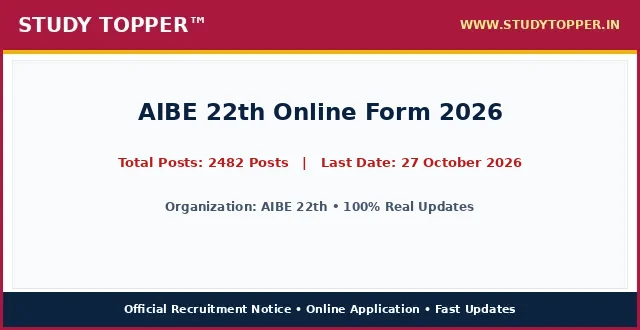
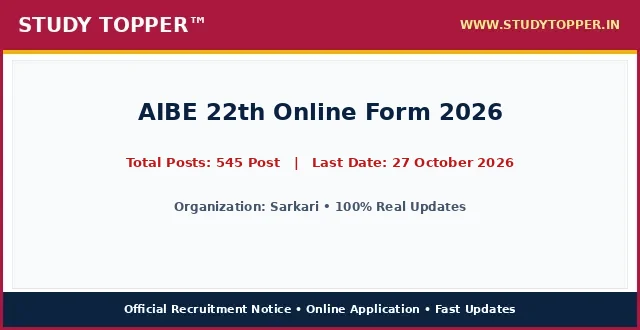
chore(lifecycle): daily auto-sort vacancies and update active dates

Changed region(s): [[0.1875, 0.4545, 0.8125, 0.5152], [0.25, 0.6061, 0.75, 0.6667]]

diff --git a/pages/2026-aibe-22th-aug26.html b/pages/2026-aibe-22th-aug26.html
@@ -987,12 +987,12 @@ ul.wp-block-latest-posts a:hover {
 <main class="site-main" id="main">
 <div class="gb-container gb-container-b39c368c">
 <h1 class="gb-headline gb-headline-e52a0102 gb-headline-text" style="font-size: 22px; font-weight: 700; color: #0000cd; text-align: left; margin: 8px 0 4px 0; line-height: 1.3; width: 100%; font-family: '-apple-system, BlinkMacSystemFont, 'Segoe UI', Roboto, 'Helvetica Neue', Arial, sans-serif', Times, serif, Hind, sans-serif;">AIBE 22th Online Form 2026</h1>
-<div class="gb-container gb-container-659bd175"><p style="color: #cd0808; font-weight: 700; font-size: 15px; margin: 2px 0 7px 0; text-align: left; font-family: '-apple-system, BlinkMacSystemFont, 'Segoe UI', Roboto, 'Helvetica Neue', Arial, sans-serif', Times, serif, Hind, sans-serif;">Post Date: August 21, 2026 07:49 PM</p></div>
-<p class="gb-headline gb-headline-550ae316 short_Details gb-headline-text" style="width: 100%; max-width: 100%; font-size: 16.8px; line-height: 1.55; color: #000000; text-align: justify; text-justify: inter-word; margin: 8px 0 14px 0; display: block; font-family: '-apple-system, BlinkMacSystemFont, 'Segoe UI', Roboto, 'Helvetica Neue', Arial, sans-serif', Times, serif, Hind, sans-serif;"><strong style="color: #0000cd;">AIBE 22th</strong> has initiated the centralized online application process for <strong style="color: #cd0808;">AIBE 22th Online Form 2026</strong> across recognized institutions and university departments. Eligible candidates seeking admission can complete the registration process before the specified deadline of 27 October 2026. The entrance evaluation and counselling allotment evaluate academic merit and entrance examination ranks. Prospective students must review detailed course eligibility, seat quotas, and reservation norms prior to submitting forms.</p>
+<div class="gb-container gb-container-659bd175"><p style="color: #cd0808; font-weight: 700; font-size: 15px; margin: 2px 0 7px 0; text-align: left; font-family: '-apple-system, BlinkMacSystemFont, 'Segoe UI', Roboto, 'Helvetica Neue', Arial, sans-serif', Times, serif, Hind, sans-serif;">Post Date: August 22, 2026 11:56 AM</p></div>
+<p class="gb-headline gb-headline-550ae316 short_Details gb-headline-text" style="width: 100%; max-width: 100%; font-size: 16.8px; line-height: 1.55; color: #000000; text-align: justify; text-justify: inter-word; margin: 8px 0 14px 0; display: block; font-family: '-apple-system, BlinkMacSystemFont, 'Segoe UI', Roboto, 'Helvetica Neue', Arial, sans-serif', Times, serif, Hind, sans-serif;"><strong style="color: #0000cd;">Sarkari</strong> has initiated the centralized online application process for <strong style="color: #cd0808;">AIBE 22th Online Form 2026</strong> across recognized institutions and university departments. Eligible candidates seeking admission can complete the registration process before the specified deadline of 27 October 2026. The entrance evaluation and counselling allotment evaluate academic merit and entrance examination ranks. Prospective students must review detailed course eligibility, seat quotas, and reservation norms prior to submitting forms.</p>
 <div class="gb-container gb-container-9849916c"><div class="social-buttons-compact" style="display: flex; justify-content: flex-start; align-items: center; gap: 10px; margin: 10px 0 16px 0; width: 100%;"><a class="social-btn-compact wa" href="https://whatsapp.com/channel/0029Va9xyz" rel="noopener" style="background-color: #00d084; color: #ffffff; padding: 10px 18px; border-radius: 4px; text-decoration: none; font-weight: bold; font-size: 15.5px; display: inline-flex; align-items: center; justify-content: center; height: auto;" target="_blank">WhatsApp</a><a class="social-btn-compact tg" href="https://t.me/studytopperofficial" rel="noopener" style="background-color: #0088cc; color: #ffffff; padding: 10px 18px; border-radius: 4px; text-decoration: none; font-weight: bold; font-size: 15.5px; display: inline-flex; align-items: center; justify-content: center; height: auto;" target="_blank">Telegram</a></div></div>
 <div class="gb-container gb-container-f58e6ca1" style="border: 2px solid #5b032f; border-radius: 4px; overflow: hidden; margin: 15px 0 20px 0; background-color: #ffffff; width: 100%; box-sizing: border-box;">
 <h2 class="gb-headline gb-headline-2ca5a791 gb-headline-text" style="font-size: 16px; font-weight: 700; text-align: center; color: #ef0303; line-height: 1.3; padding: 6px 4px; margin: 0; background: #ffffff; font-family: '-apple-system, BlinkMacSystemFont, 'Segoe UI', Roboto, 'Helvetica Neue', Arial, sans-serif', Times, serif, Hind, sans-serif;">AIBE 22th Online Form 2026 &ndash; Latest Details &amp; Updates</h2>
-<h3 class="gb-headline gb-headline-7d5f86e8 gb-headline-text" style="font-size: 16px; font-weight: 600; text-align: center; color: #009703; line-height: 1.25; margin: 0; padding: 2px 4px 6px 4px; background: #ffffff; font-family: '-apple-system, BlinkMacSystemFont, 'Segoe UI', Roboto, 'Helvetica Neue', Arial, sans-serif', Times, serif, Hind, sans-serif;">AIBE 22th : Details &amp; Summary</h3>
+<h3 class="gb-headline gb-headline-7d5f86e8 gb-headline-text" style="font-size: 16px; font-weight: 600; text-align: center; color: #009703; line-height: 1.25; margin: 0; padding: 2px 4px 6px 4px; background: #ffffff; font-family: '-apple-system, BlinkMacSystemFont, 'Segoe UI', Roboto, 'Helvetica Neue', Arial, sans-serif', Times, serif, Hind, sans-serif;">Sarkari : Details &amp; Summary</h3>
 <p class="gb-headline gb-headline-79adf169 gb-headline-text" style="margin: 0 0 6px 0; font-family: '-apple-system, BlinkMacSystemFont, 'Segoe UI', Roboto, 'Helvetica Neue', Arial, sans-serif', Times, serif, Hind, sans-serif; text-align: center; font-size: 18px; font-weight: 700;"><a href="/" style="color: #0000ff; text-decoration: underline;">StudyTopper.in</a></p>
 
 <style id="st-post-boxes-responsive-css">
@@ -1025,7 +1025,7 @@ ul.wp-block-latest-posts a:hover {
     <div style="background-color: #5b032f; color: #ffffff; padding: 8px 10px; font-size: 20px; font-weight: 700; text-align: center; font-family: '-apple-system, BlinkMacSystemFont, 'Segoe UI', Roboto, 'Helvetica Neue', Arial, sans-serif', Times, serif, Hind, sans-serif;">Admission Schedule Dates</div>
     <div style="padding: 12px 14px; background-color: #ffffff;">
       <ul style="padding-left: 20px; margin: 0; list-style-type: disc; text-align: left; font-size: 14pt; line-height: 1.6; font-family: '-apple-system, BlinkMacSystemFont, 'Segoe UI', Roboto, 'Helvetica Neue', Arial, sans-serif', Times, serif, Hind, sans-serif;">
-        <li><span style="font-size: 14pt;">Online Apply Start Date : <strong>19 August 2026</strong></span></li><li><span style="font-size: 14pt;">Online Apply Last Date : <span style="color: #ff0000;"><strong>27 October 2026</strong></span></span></li><li><span style="font-size: 14pt;">Last Date of Fee Payment : <span style="color: #ff0000;"><strong>28 October 2026</strong></span></span></li><li><span style="font-size: 14pt;">Correction Last Date : <span style="color: #ff0000;"><strong>30 October 2026</strong></span></span></li><li><span style="font-size: 14pt;">Exam Date : <strong>29 November 2026</strong></span></li><li><span style="font-size: 14pt;">Admit Card Date : <strong>14 November 2026</strong></span></li><li><span style="font-size: 14pt;">AIBE 22th Notification 2026 : <strong>Age Limit</strong></span></li>
+        
       </ul>
     </div>
   </div>
@@ -1034,7 +1034,7 @@ ul.wp-block-latest-posts a:hover {
     <div style="background-color: #5b032f; color: #ffffff; padding: 8px 10px; font-size: 20px; font-weight: 700; text-align: center; font-family: '-apple-system, BlinkMacSystemFont, 'Segoe UI', Roboto, 'Helvetica Neue', Arial, sans-serif', Times, serif, Hind, sans-serif;">Application &amp; Counselling Fee</div>
     <div style="padding: 12px 14px; background-color: #ffffff;">
       <ul style="padding-left: 20px; margin: 0; list-style-type: disc; text-align: left; font-size: 14pt; line-height: 1.6; font-family: '-apple-system, BlinkMacSystemFont, 'Segoe UI', Roboto, 'Helvetica Neue', Arial, sans-serif', Times, serif, Hind, sans-serif;">
-        <li><span style="font-size: 14pt;">For General, EWS, OBC : <strong>₹ 3500/-</strong></span></li><li><span style="font-size: 14pt;">For SC, ST, PwBD : <strong>₹ 2500/-</strong></span></li><li><span style="font-size: 14pt;">Payment Mode (Online) : <strong>You can make the payment using the following methods: Debit Card Credit Card Internet Banking IMPS Cash Card / Mobile Wallet</strong></span></li>
+        <li><span style="font-size: 14pt;">Bihar Police BPSSC Sub Inspector SI Prohibition Result 2026 Advt. No. : <strong>03/2026</strong></span></li><li><span style="font-size: 14pt;">UP Scholarship Online Form 2026 : <strong>2027</strong></span></li>
       </ul>
       <div style="margin-top: 10px; font-size: 14pt; line-height: 1.5; color: #000000; border-top: 1px dashed #ccc; padding-top: 8px; font-family: '-apple-system, BlinkMacSystemFont, 'Segoe UI', Roboto, 'Helvetica Neue', Arial, sans-serif', Times, serif, Hind, sans-serif;">
         <strong>Mode of Payment / Access:</strong> Online via Net Banking, Debit Card, Credit Card, UPI or Free Candidate Portal.
@@ -1047,10 +1047,10 @@ ul.wp-block-latest-posts a:hover {
 <div class="st-grid-row" style="display: flex; flex-wrap: wrap; width: 100%; border-top: 2px solid #5b032f; margin: 0; padding: 0; box-sizing: border-box;">
   <!-- Left Col: Age Limits -->
   <div class="st-col-half st-col-border-right" style="box-sizing: border-box; vertical-align: top;">
-    <div style="background-color: #046132; color: #ffffff; padding: 8px 10px; font-size: 17px; font-weight: 700; text-align: center; font-family: '-apple-system, BlinkMacSystemFont, 'Segoe UI', Roboto, 'Helvetica Neue', Arial, sans-serif', Times, serif, Hind, sans-serif;">AIBE 22th : Age Criteria As On 01 August 2026</div>
+    <div style="background-color: #046132; color: #ffffff; padding: 8px 10px; font-size: 17px; font-weight: 700; text-align: center; font-family: '-apple-system, BlinkMacSystemFont, 'Segoe UI', Roboto, 'Helvetica Neue', Arial, sans-serif', Times, serif, Hind, sans-serif;">Sarkari : Age Criteria As On 01 August 2026</div>
     <div style="padding: 12px 14px; background-color: #ffffff;">
       <ul style="padding-left: 20px; margin: 0; list-style-type: disc; text-align: left; font-size: 14pt; line-height: 1.6; font-family: '-apple-system, BlinkMacSystemFont, 'Segoe UI', Roboto, 'Helvetica Neue', Arial, sans-serif', Times, serif, Hind, sans-serif;">
-        <li><span style="font-size: 14pt;">Age Criteria : <strong>As per official examination / admission rules</strong></span></li><li><span style="font-size: 14pt;">Eligibility Requirement : <strong>Candidate must meet prescribed educational guidelines</strong></span></li>
+        
       </ul>
     </div>
   </div>
@@ -1058,7 +1058,7 @@ ul.wp-block-latest-posts a:hover {
   <div class="st-col-half" style="box-sizing: border-box; vertical-align: top;">
     <div style="background-color: #f53c00; color: #ffffff; padding: 8px 10px; font-size: 20px; font-weight: 700; text-align: center; font-family: '-apple-system, BlinkMacSystemFont, 'Segoe UI', Roboto, 'Helvetica Neue', Arial, sans-serif', Times, serif, Hind, sans-serif;">Total Seats / Quota</div>
     <div style="padding: 24px 10px; background-color: #ffffff; text-align: center;">
-      <span style="font-size: 28px; font-weight: 800; color: #000000; font-family: '-apple-system, BlinkMacSystemFont, 'Segoe UI', Roboto, 'Helvetica Neue', Arial, sans-serif', Times, serif, Hind, sans-serif;">2482 Posts</span>
+      <span style="font-size: 28px; font-weight: 800; color: #000000; font-family: '-apple-system, BlinkMacSystemFont, 'Segoe UI', Roboto, 'Helvetica Neue', Arial, sans-serif', Times, serif, Hind, sans-serif;">545 Post</span>
     </div>
   </div>
 </div>
@@ -1070,19 +1070,7 @@ ul.wp-block-latest-posts a:hover {
 <div class="gb-container gb-container-ec1f6e4c">
 <h2 class="gb-headline gb-headline-c7683bda gb-headline-text" style="font-size: 24px; font-weight: 800; text-align: center; color: #ef0303; line-height: 1.35; margin: 20px 0 12px 0; padding: 6px 4px; font-family: '-apple-system, BlinkMacSystemFont, 'Segoe UI', Roboto, 'Helvetica Neue', Arial, sans-serif', Times, serif, Hind, sans-serif;">AIBE 22th Online Form 2026 : Key Overview &amp; Matrix</h2>
 <div class="gb-headline gb-headline-60ccea19 gb-headline-text">
-<table style="border-collapse: collapse; width: 100%; height: 150px;">
-<tbody>
-<tr style="height: 25px;">
-<td colspan="2" style="width: 50%; text-align: center; height: 25px;"><span style="background-color: #000080; color: #ffffff; font-size: 14pt;"><strong> AIBE 22th : Course Wise Seat Matrix &amp; Eligibility Details </strong></span></td>
-</tr>
-<tr style="height: 25px;">
-<td style="width: 50%; height: 25px; text-align: center;"><span style="font-size: 14pt;"><strong>Category / Particulars</strong></span></td>
-<td style="width: 50%; height: 25px; text-align: center;"><span style="font-size: 14pt;"><strong>Count / Status</strong></span></td>
-</tr>
-<tr><td style="text-align: center;">Admission Session</td><td style="text-align: center; font-weight: normal; color: inherit;">2026-2027</td></tr><tr><td style="text-align: center;">Target Programs</td><td style="text-align: center; font-weight: normal; color: inherit;">Undergraduate / Postgraduate Courses</td></tr><tr><td style="text-align: center;">Total Seats</td><td style="text-align: center; font-weight: bold; color: #ff0000;">2482 Posts</td></tr>
-</tbody>
-</table>
-<p>&nbsp;</p>
+
 <table style="border-collapse: collapse; width: 100%;">
 <tbody>
 <tr>
@@ -1091,12 +1079,13 @@ ul.wp-block-latest-posts a:hover {
 <th style="background-color: #f53c00; color: #ffffff; padding: 6px 10px; text-align: center; border: 1px solid #d35400; font-size: 15px; font-weight: 700; font-family: '-apple-system, BlinkMacSystemFont, 'Segoe UI', Roboto, 'Helvetica Neue', Arial, sans-serif', Times, serif, Hind, sans-serif;">Educational Qualification &amp; Eligibility</th>
 </tr>
 <tr>
-<td style="padding: 8px; border: 1px solid #ddd; font-weight: bold;">All India Bar Examination AIBE 22th</td>
-<td style="padding: 8px; border: 1px solid #ddd; text-align: center; font-weight: bold;">2482 Posts</td>
-<td style="padding: 8px; border: 1px solid #ddd;">Bachelor Degree in Law (LLB) Degree or 5 year from a university recognized by the Bar Council of India.</td>
+<td style="padding: 8px; border: 1px solid #ddd; font-weight: bold;">Sarkari Recruitment</td>
+<td style="padding: 8px; border: 1px solid #ddd; text-align: center; font-weight: bold;">545 Post</td>
+<td style="padding: 8px; border: 1px solid #ddd;">Please refer to the official notification linked below for detailed educational qualifications.</td>
 </tr>
 </tbody>
 </table>
+<p>&nbsp;</p>
 <p>&nbsp;</p>
 
 
@@ -1104,10 +1093,10 @@ ul.wp-block-latest-posts a:hover {
 <table style="border-collapse: collapse; width: 100%;">
 <tbody>
 <tr>
-<td style="width: 100%; text-align: center;"><span style="background-color: #000080; color: #ffffff; font-size: 14pt; font-weight: bold; display: block; padding: 6px;"> How to Apply for AIBE 22th Online Admission Form 2026 </span></td>
+<td style="width: 100%; text-align: center;"><span style="background-color: #000080; color: #ffffff; font-size: 14pt; font-weight: bold; display: block; padding: 6px;"> How to Apply for Sarkari Online Admission Form 2026 </span></td>
 </tr>
 <tr>
-<td style="width: 100%;"><ol style="margin:0; padding-left:18px; text-align: left !important; list-style-position: outside !important"><li style="margin-bottom:6px; text-align: left !important;">Visit official portal for AIBE 22th Online Form 2026 via direct application link in important links section below.</li><li style="margin-bottom:6px; text-align: left !important;">Read official recruitment notification carefully to verify category eligibility criteria and age limits.</li><li style="margin-bottom:6px; text-align: left !important;">Complete online candidate registration with valid mobile number and email ID.</li><li style="margin-bottom:6px; text-align: left !important;">Fill educational qualifications, identity details, and permanent address accurately.</li><li style="margin-bottom:6px; text-align: left !important;">Upload scanned photograph and signature in required dimensions.</li><li style="margin-bottom:6px; text-align: left !important;">Resize candidate photograph and signature accurately using StudyTopper Tools resizer at indtool.in.</li><li style="margin-bottom:6px; text-align: left !important;">Pay applicable category application fee online using Debit Card, Credit Card, Net Banking, or UPI.</li><li style="margin-bottom:6px; text-align: left !important;">Review full application form preview thoroughly and submit before 27 October 2026.</li><li style="margin-bottom:6px; text-align: left !important;">Download and print submitted application confirmation page for future reference.</li></ol></td>
+<td style="width: 100%;"><ol style="margin:0; padding-left:18px; text-align: left !important; list-style-position: outside !important"><li style="margin-bottom:6px; text-align: left !important;">Read the official recruitment notification carefully before applying.</li><li style="margin-bottom:6px; text-align: left !important;">Keep all basic documents ready: ID Proof, Address Details, Basic Details.</li><li style="margin-bottom:6px; text-align: left !important;">Ready your scanned documents like Photo, Signature, ID Proof, etc.</li><li style="margin-bottom:6px; text-align: left !important;">Click on the 'Apply Online' link given in the Important Links section below.</li><li style="margin-bottom:6px; text-align: left !important;">Fill out all the columns in the application form accurately.</li><li style="margin-bottom:6px; text-align: left !important;">Pay the required application fee if applicable.</li><li style="margin-bottom:6px; text-align: left !important;">Take a printout of the final submitted application form.</li><li style="margin-bottom:6px; text-align: left !important;">Resize candidate photograph and signature accurately using the <a href="https://indtool.in" rel="noopener" target="_blank"><strong>StudyTopper Tools</strong></a> image resizer at indtool.in.</li></ol></td>
 </tr>
 </tbody>
 </table>
@@ -1115,12 +1104,12 @@ ul.wp-block-latest-posts a:hover {
 <table style="border-collapse: collapse; width: 100%;">
 <tbody>
 <tr>
-<td style="width: 100%; text-align: center;"><span style="background-color: #000080; color: #ffffff; font-size: 14pt;"><strong><span style="color: #ffffff;"> AIBE 22th Admission 2026 : Mode of Selection &amp; Counselling </span></strong></span></td>
+<td style="width: 100%; text-align: center;"><span style="background-color: #000080; color: #ffffff; font-size: 14pt;"><strong><span style="color: #ffffff;"> Sarkari Admission 2026 : Mode of Selection &amp; Counselling </span></strong></span></td>
 </tr>
 <tr>
 <td style="width: 100%;">
 <ul class="wp-block-list" style="text-align: left !important; list-style-position: outside !important">
-<li style="text-align: left !important;"><span style="font-size: 14pt;"><strong>Computer Based Examination (CBE) / Evaluation</strong></span></li><li style="text-align: left !important;"><span style="font-size: 14pt;"><strong>Document Verification</strong></span></li><li style="text-align: left !important;"><span style="font-size: 14pt;"><strong>Final Merit Allotment</strong></span></li>
+<li style="text-align: left !important;"><span style="font-size: 14pt;"><strong>Computer Based Examination (CBE) / Written Exam</strong></span></li><li style="text-align: left !important;"><span style="font-size: 14pt;"><strong>Document Verification</strong></span></li><li style="text-align: left !important;"><span style="font-size: 14pt;"><strong>Medical Examination</strong></span></li>
 </ul>
 </td>
 </tr>
@@ -1155,50 +1144,42 @@ ul.wp-block-latest-posts a:hover {
 
 <tr style="border-bottom: 1px solid #000000; background-color: #fff37a;">
 <td style="width: 50%; padding: 14px 16px; border-right: 1px solid #000000; text-align: center;">
-<span style="font-size: 19px; font-weight: 800; color: #000000; font-family: '-apple-system, BlinkMacSystemFont, 'Segoe UI', Roboto, 'Helvetica Neue', Arial, sans-serif', Times, serif, Hind, sans-serif;">Apply Online</span>
+<span style="font-size: 19px; font-weight: 800; color: #000000; font-family: '-apple-system, BlinkMacSystemFont, 'Segoe UI', Roboto, 'Helvetica Neue', Arial, sans-serif', Times, serif, Hind, sans-serif;">Apply Online (Registration / Login)</span>
 </td>
 <td style="width: 50%; padding: 14px 16px; text-align: center;">
-<span style="font-size: 20px; font-weight: 800; font-family: '-apple-system, BlinkMacSystemFont, 'Segoe UI', Roboto, 'Helvetica Neue', Arial, sans-serif', Times, serif, Hind, sans-serif;"><a href="https://aibe.digivarsity.online/WebApp/Forms/Authentication.aspx" aria-label="Click Here for Apply Online - AIBE 22th Online Form 2026" rel="noopener noreferrer" style="color: #0000ef; font-weight: 800; text-decoration: none;" target="_blank">Click Here</a></span>
+<span style="font-size: 20px; font-weight: 800; font-family: '-apple-system, BlinkMacSystemFont, 'Segoe UI', Roboto, 'Helvetica Neue', Arial, sans-serif', Times, serif, Hind, sans-serif;"><a href="https://www.sarkariresult.com/2026/mpesb-group2-subgroup-4-aug26/" aria-label="Click Here for Apply Online (Registration / Login) - AIBE 22th Online Form 2026" rel="noopener noreferrer" style="color: #0000ef; font-weight: 800; text-decoration: none;" target="_blank">Click Here</a></span>
 </td>
 </tr>
 <tr style="border-bottom: 1px solid #000000; background-color: #fff37a;">
 <td style="width: 50%; padding: 14px 16px; border-right: 1px solid #000000; text-align: center;">
-<span style="font-size: 19px; font-weight: 800; color: #000000; font-family: '-apple-system, BlinkMacSystemFont, 'Segoe UI', Roboto, 'Helvetica Neue', Arial, sans-serif', Times, serif, Hind, sans-serif;">Applicant Login</span>
+<span style="font-size: 19px; font-weight: 800; color: #000000; font-family: '-apple-system, BlinkMacSystemFont, 'Segoe UI', Roboto, 'Helvetica Neue', Arial, sans-serif', Times, serif, Hind, sans-serif;">Download Information Brochure PDF</span>
 </td>
 <td style="width: 50%; padding: 14px 16px; text-align: center;">
-<span style="font-size: 20px; font-weight: 800; font-family: '-apple-system, BlinkMacSystemFont, 'Segoe UI', Roboto, 'Helvetica Neue', Arial, sans-serif', Times, serif, Hind, sans-serif;"><a href="https://aibe.digivarsity.online/WebApp/Forms/UserAuthentication.aspx" aria-label="Click Here for Applicant Login - AIBE 22th Online Form 2026" rel="noopener noreferrer" style="color: #0000ef; font-weight: 800; text-decoration: none;" target="_blank">Click Here</a></span>
+<span style="font-size: 20px; font-weight: 800; font-family: '-apple-system, BlinkMacSystemFont, 'Segoe UI', Roboto, 'Helvetica Neue', Arial, sans-serif', Times, serif, Hind, sans-serif;"><a href="" aria-label="Click Here for Download Information Brochure PDF - AIBE 22th Online Form 2026" rel="noopener noreferrer" style="color: #0000ef; font-weight: 800; text-decoration: none;" target="_blank">Click Here</a></span>
 </td>
 </tr>
 <tr style="border-bottom: 1px solid #000000; background-color: #fff37a;">
 <td style="width: 50%; padding: 14px 16px; border-right: 1px solid #000000; text-align: center;">
-<span style="font-size: 19px; font-weight: 800; color: #000000; font-family: '-apple-system, BlinkMacSystemFont, 'Segoe UI', Roboto, 'Helvetica Neue', Arial, sans-serif', Times, serif, Hind, sans-serif;">Check Official Notification</span>
+<span style="font-size: 19px; font-weight: 800; color: #000000; font-family: '-apple-system, BlinkMacSystemFont, 'Segoe UI', Roboto, 'Helvetica Neue', Arial, sans-serif', Times, serif, Hind, sans-serif;">Photo / Sign Resizer Tool</span>
 </td>
 <td style="width: 50%; padding: 14px 16px; text-align: center;">
-<span style="font-size: 20px; font-weight: 800; font-family: '-apple-system, BlinkMacSystemFont, 'Segoe UI', Roboto, 'Helvetica Neue', Arial, sans-serif', Times, serif, Hind, sans-serif;"><a href="https://www.allindiabarexamination.com/img/PressReleasedated18.07.2026.pdf" aria-label="Click Here for Check Official Notification - AIBE 22th Online Form 2026" rel="noopener noreferrer" style="color: #0000ef; font-weight: 800; text-decoration: none;" target="_blank">Click Here</a></span>
+<span style="font-size: 20px; font-weight: 800; font-family: '-apple-system, BlinkMacSystemFont, 'Segoe UI', Roboto, 'Helvetica Neue', Arial, sans-serif', Times, serif, Hind, sans-serif;"><a href="https://indtool.in" aria-label="Click Here for Photo / Sign Resizer Tool - AIBE 22th Online Form 2026" rel="noopener noreferrer" style="color: #0000ef; font-weight: 800; text-decoration: none;" target="_blank">Click Here</a></span>
 </td>
 </tr>
 <tr style="border-bottom: 1px solid #000000; background-color: #fff37a;">
-<td style="width: 50%; padding: 14px 16px; border-right: 1px solid #000000; text-align: center;">
-<span style="font-size: 19px; font-weight: 800; color: #000000; font-family: '-apple-system, BlinkMacSystemFont, 'Segoe UI', Roboto, 'Helvetica Neue', Arial, sans-serif', Times, serif, Hind, sans-serif;">Check Syllabus</span>
-</td>
-<td style="width: 50%; padding: 14px 16px; text-align: center;">
-<span style="font-size: 20px; font-weight: 800; font-family: '-apple-system, BlinkMacSystemFont, 'Segoe UI', Roboto, 'Helvetica Neue', Arial, sans-serif', Times, serif, Hind, sans-serif;"><a href="https://www.allindiabarexamination.com/img/Syllabus%20for%20All%20India%20Bar%20Exam-XXI.pdf#toolbar=0&navpanes=0&scrollbar=0" aria-label="Click Here for Check Syllabus - AIBE 22th Online Form 2026" rel="noopener noreferrer" style="color: #0000ef; font-weight: 800; text-decoration: none;" target="_blank">Click Here</a></span>
-</td>
-</tr>
-<tr style="border-bottom: 1px solid #000000; background-color: #fff37a;">
-<td style="width: 50%; padding: 14px 16px; border-right: 1px solid #000000; text-align: center;">
-<span style="font-size: 19px; font-weight: 800; color: #000000; font-family: '-apple-system, BlinkMacSystemFont, 'Segoe UI', Roboto, 'Helvetica Neue', Arial, sans-serif', Times, serif, Hind, sans-serif;">AIBE 22th XXI Official Website</span>
-</td>
-<td style="width: 50%; padding: 14px 16px; text-align: center;">
-<span style="font-size: 20px; font-weight: 800; font-family: '-apple-system, BlinkMacSystemFont, 'Segoe UI', Roboto, 'Helvetica Neue', Arial, sans-serif', Times, serif, Hind, sans-serif;"><a href="https://www.allindiabarexamination.com/" aria-label="Click Here for AIBE 22th XXI Official Website - AIBE 22th Online Form 2026" rel="noopener noreferrer" style="color: #0000ef; font-weight: 800; text-decoration: none;" target="_blank">Click Here</a></span>
-</td>
-</tr>
-<tr style=" background-color: #fff37a;">
 <td style="width: 50%; padding: 14px 16px; border-right: 1px solid #000000; text-align: center;">
 <span style="font-size: 19px; font-weight: 800; color: #000000; font-family: '-apple-system, BlinkMacSystemFont, 'Segoe UI', Roboto, 'Helvetica Neue', Arial, sans-serif', Times, serif, Hind, sans-serif;">Check Sarkari Result</span>
 </td>
 <td style="width: 50%; padding: 14px 16px; text-align: center;">
 <span style="font-size: 20px; font-weight: 800; font-family: '-apple-system, BlinkMacSystemFont, 'Segoe UI', Roboto, 'Helvetica Neue', Arial, sans-serif', Times, serif, Hind, sans-serif;"><a href="/" aria-label="Click Here for Check Sarkari Result - AIBE 22th Online Form 2026" rel="noopener noreferrer" style="color: #0000ef; font-weight: 800; text-decoration: none;" >Click Here</a></span>
+</td>
+</tr>
+<tr style=" background-color: #fff37a;">
+<td style="width: 50%; padding: 14px 16px; border-right: 1px solid #000000; text-align: center;">
+<span style="font-size: 19px; font-weight: 800; color: #000000; font-family: '-apple-system, BlinkMacSystemFont, 'Segoe UI', Roboto, 'Helvetica Neue', Arial, sans-serif', Times, serif, Hind, sans-serif;">Sarkari Website</span>
+</td>
+<td style="width: 50%; padding: 14px 16px; text-align: center;">
+<span style="font-size: 20px; font-weight: 800; font-family: '-apple-system, BlinkMacSystemFont, 'Segoe UI', Roboto, 'Helvetica Neue', Arial, sans-serif', Times, serif, Hind, sans-serif;"><a href="" aria-label="Click Here for Sarkari Website - AIBE 22th Online Form 2026" rel="noopener noreferrer" style="color: #0000ef; font-weight: 800; text-decoration: none;" target="_blank">Click Here</a></span>
 </td>
 </tr>
 </tbody>
